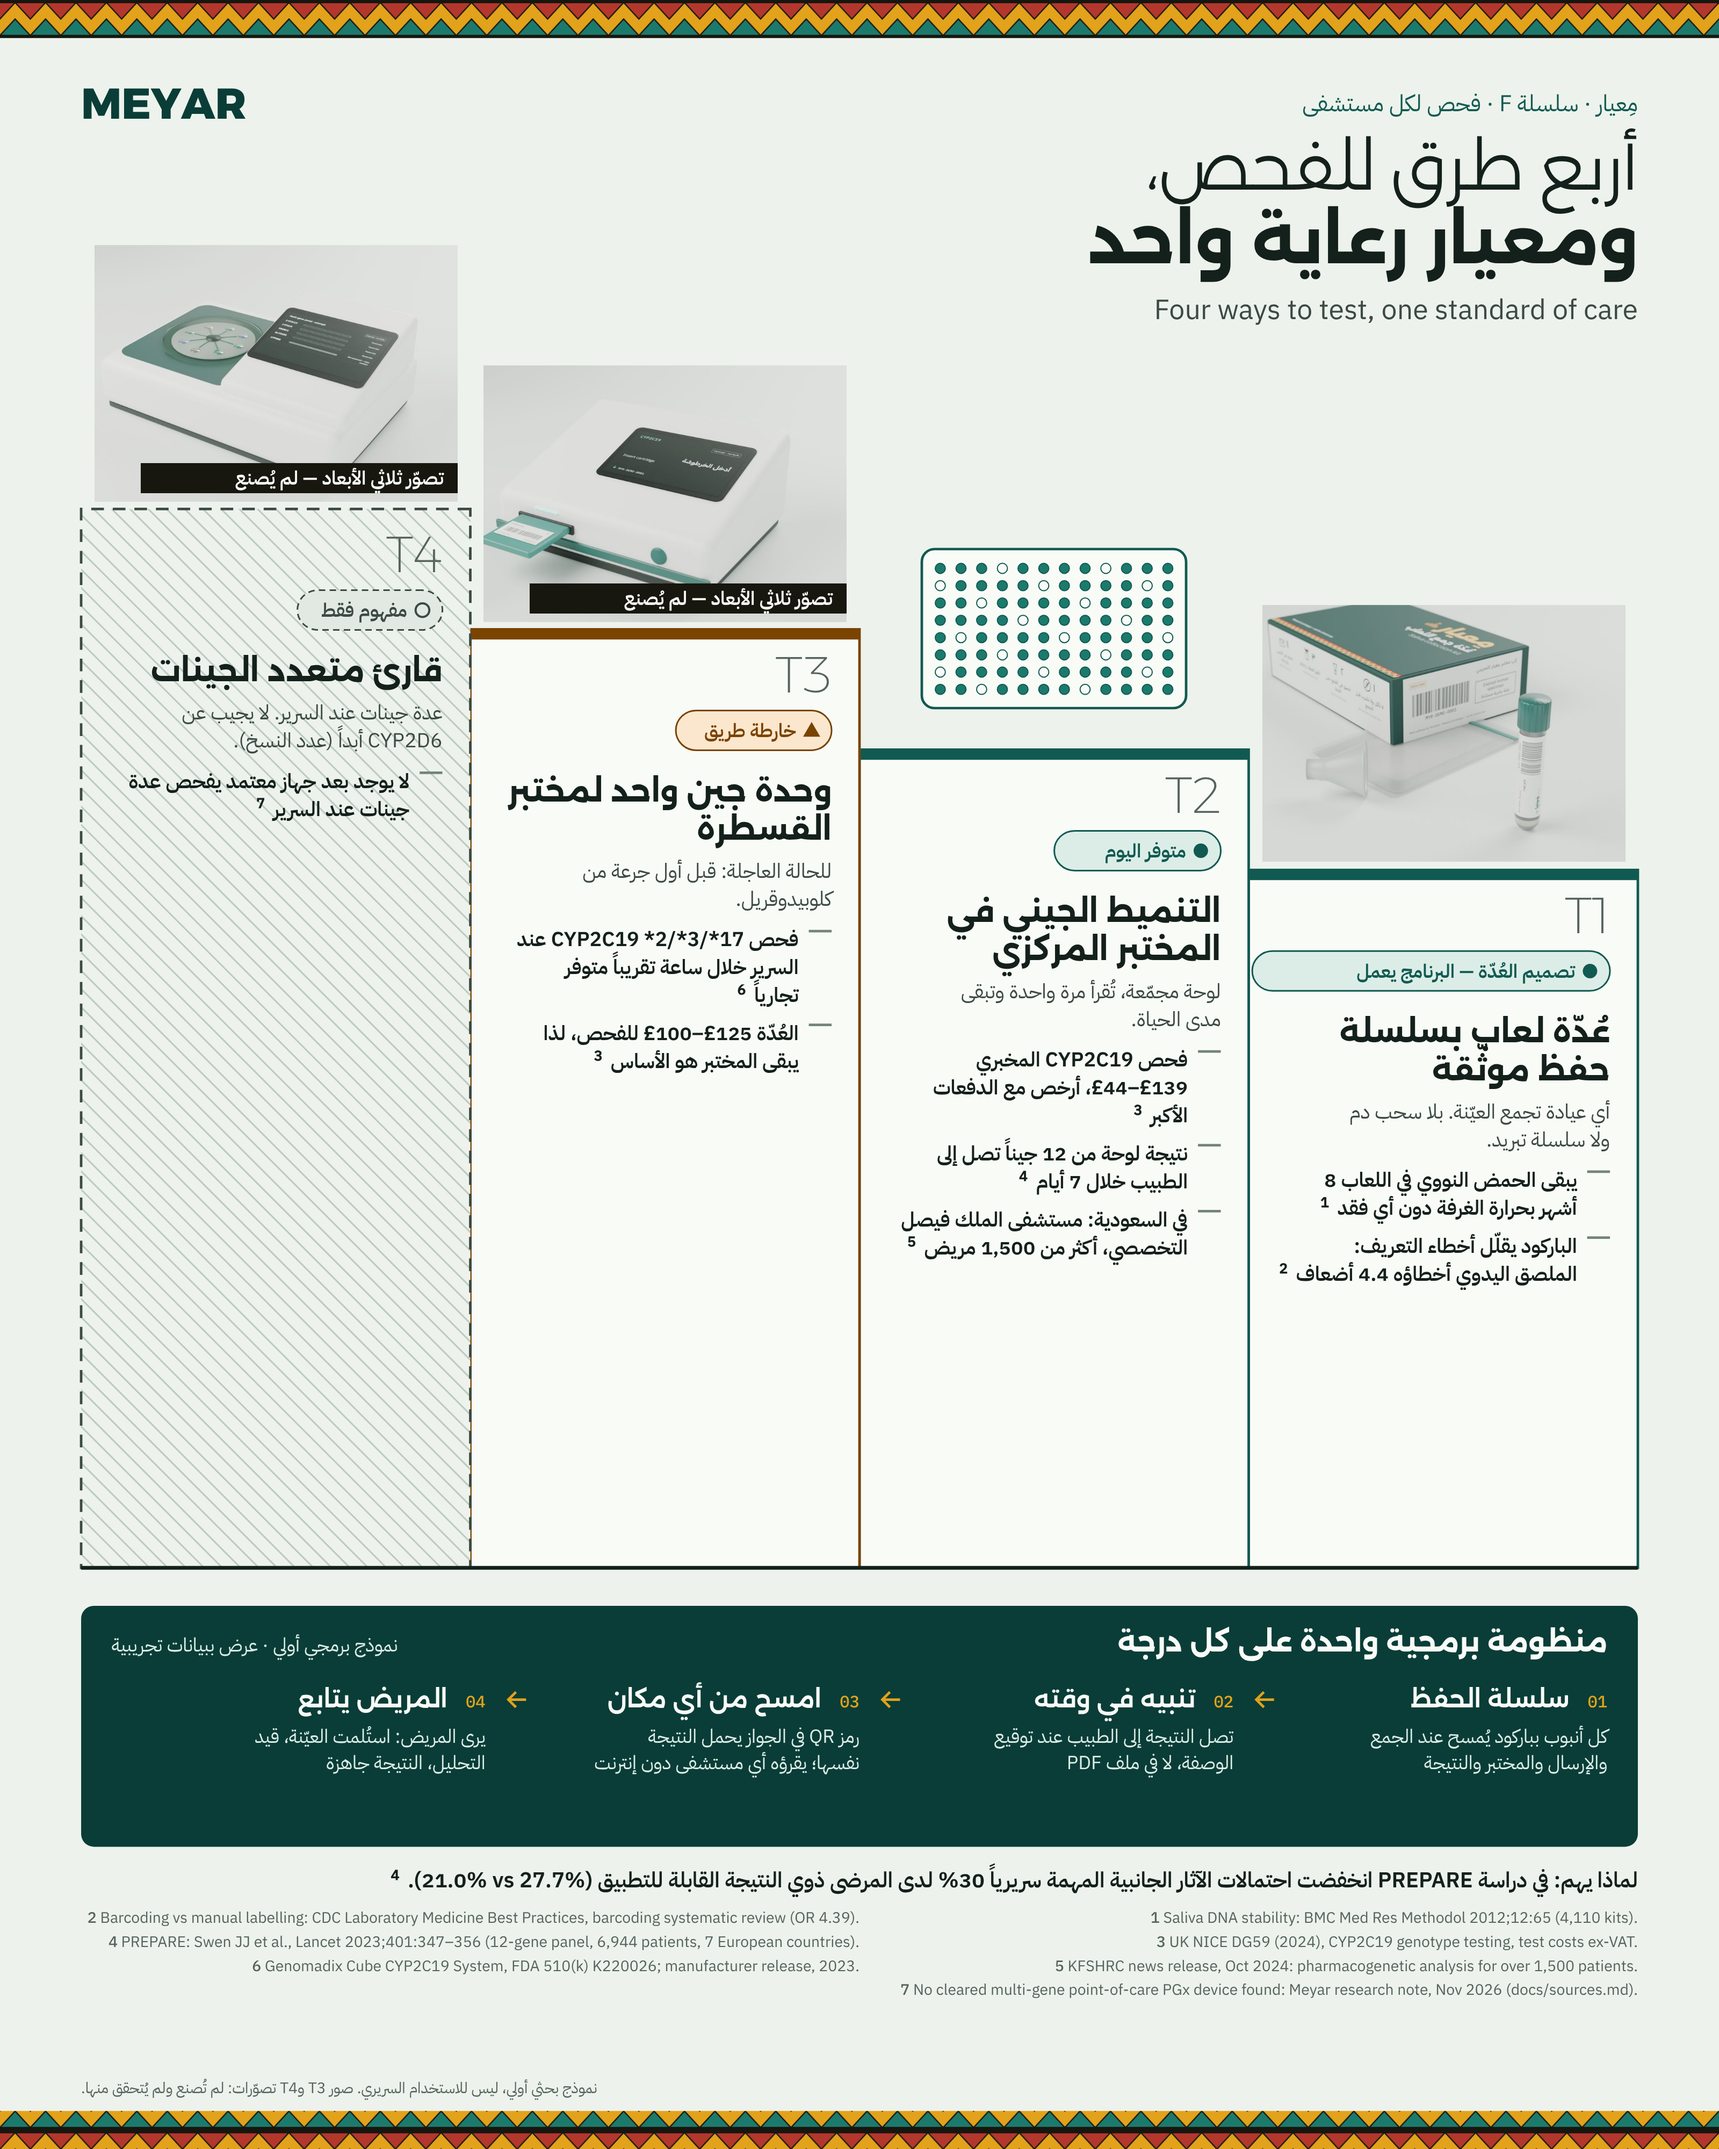
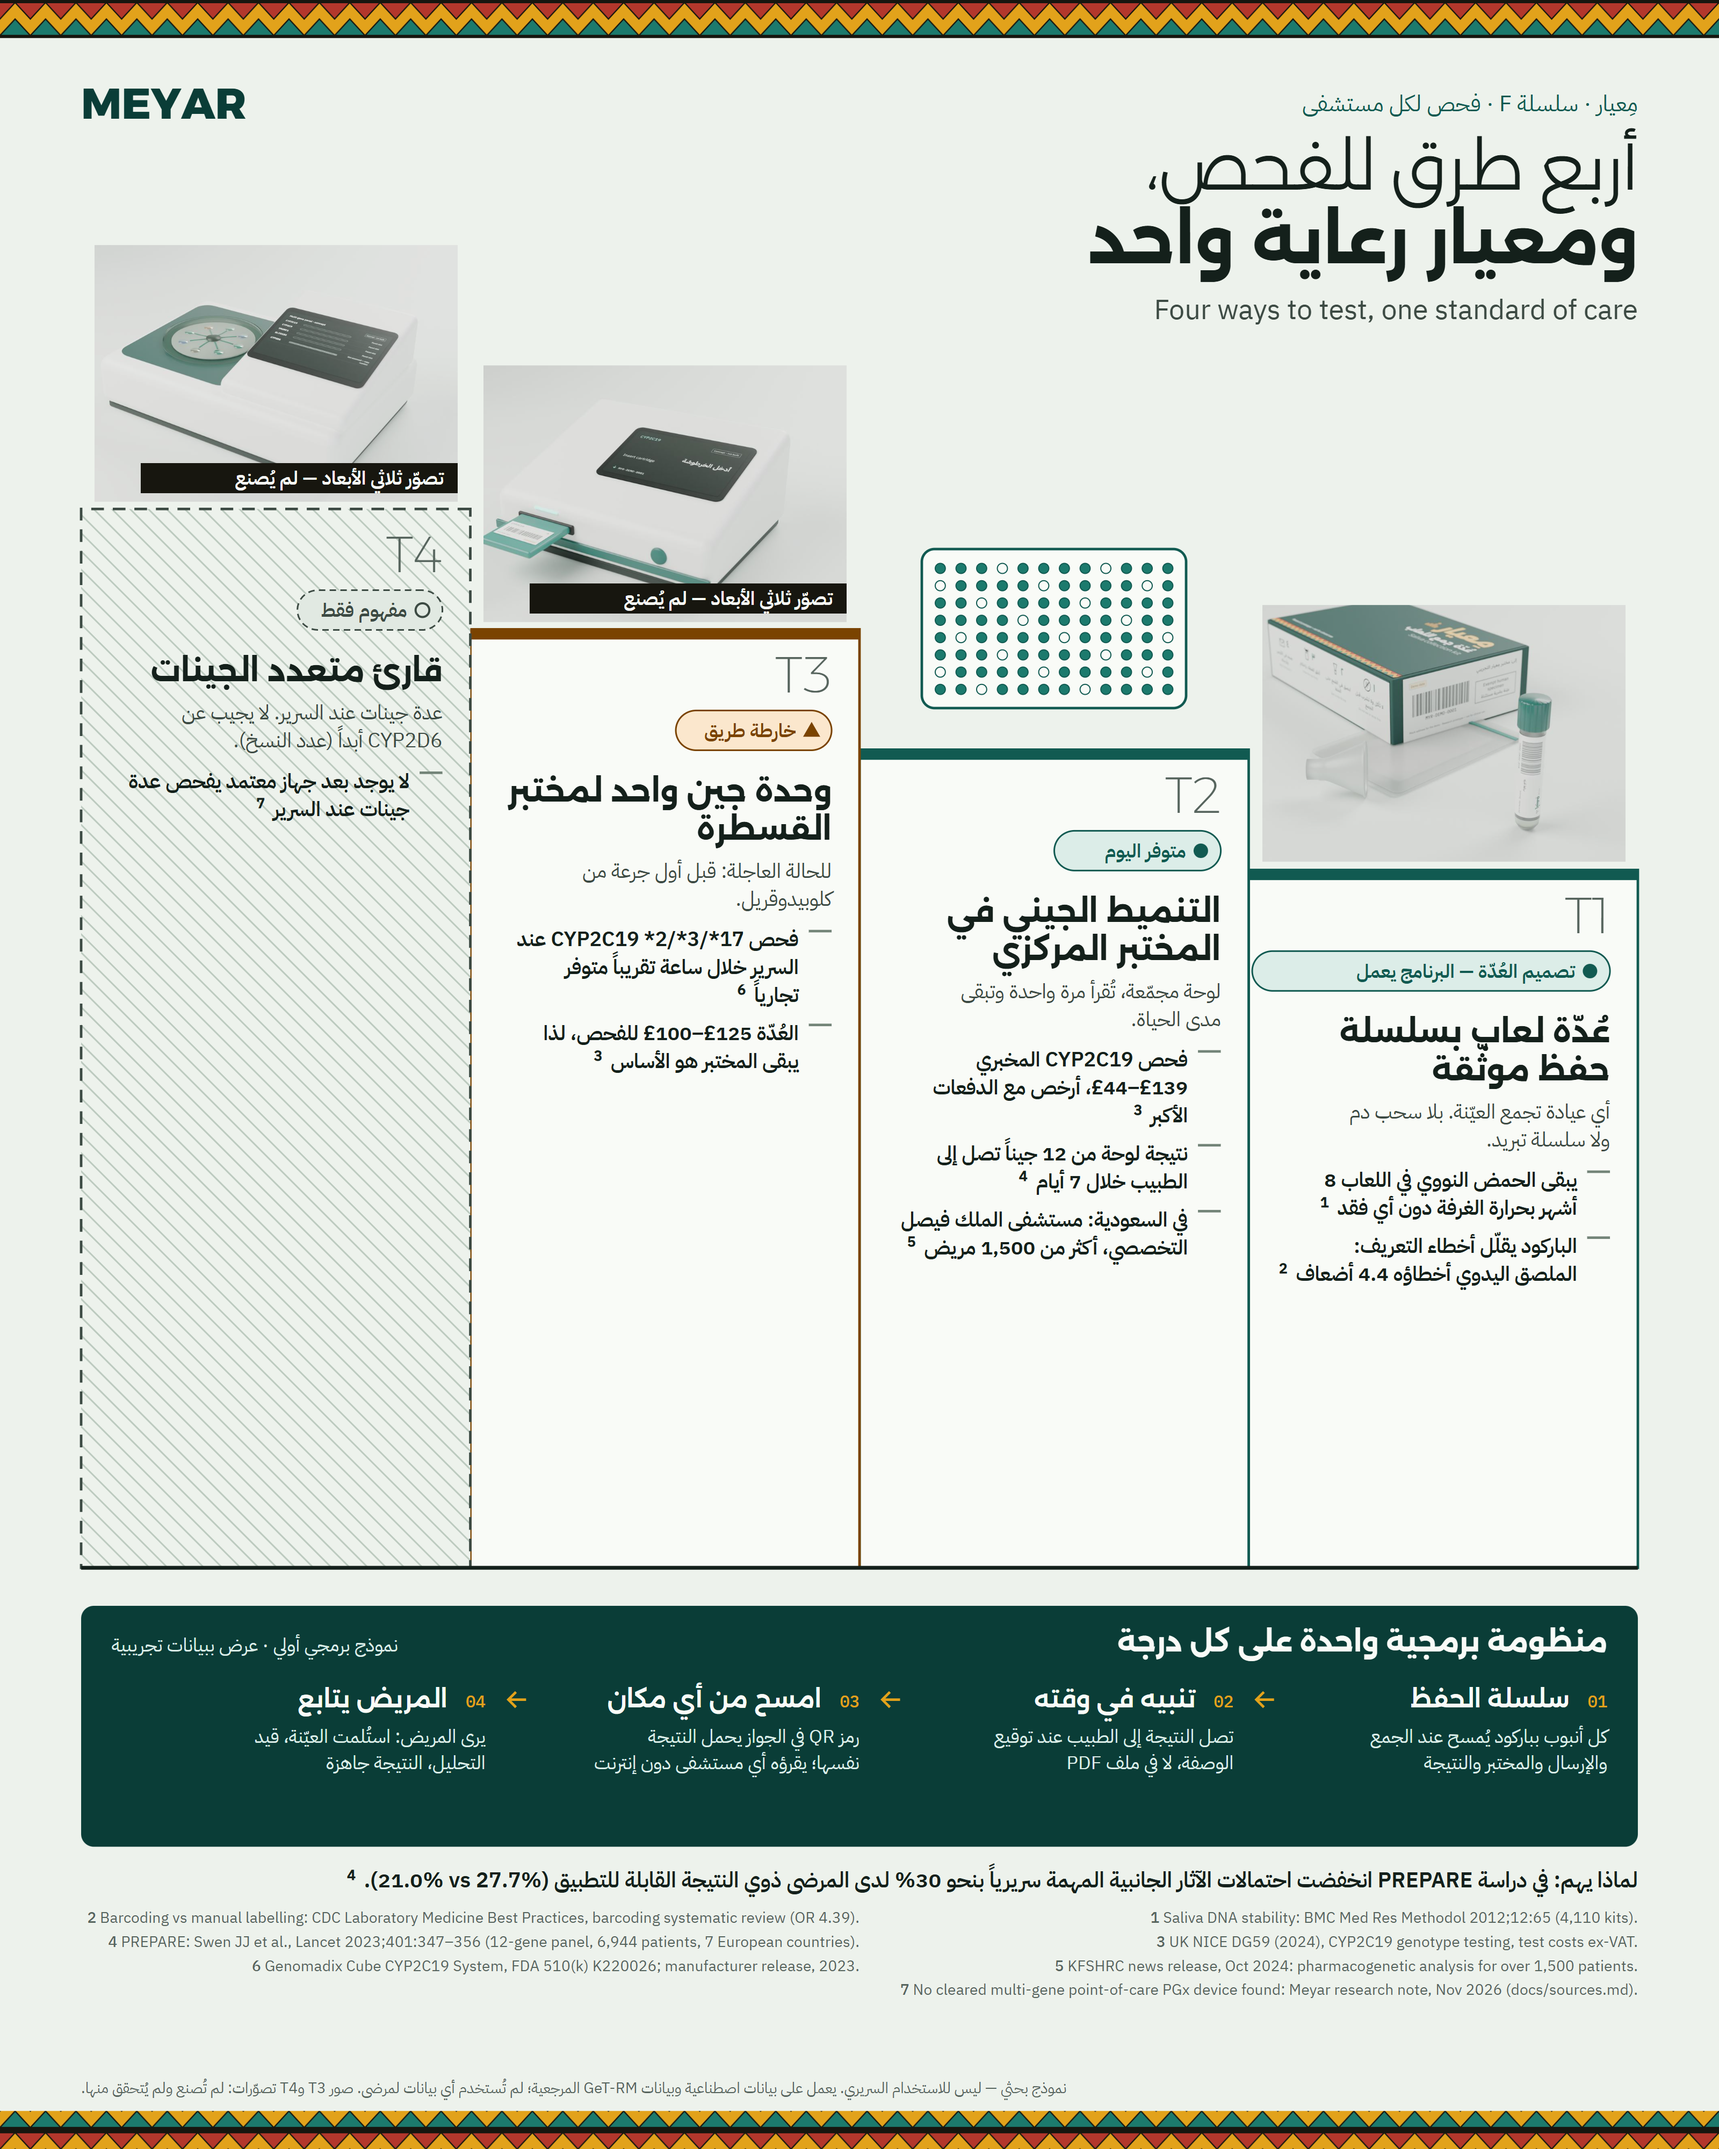
REVIEW: F4 panel carries both mandatory lines and the approved PREPARE wording ('about 30% lower odds'); render_png honours CHROMIUM_PATH

Changed region(s): [[0.2188, 0.875, 0.5, 0.9062], [0.6875, 0.875, 0.9375, 0.9062]]

diff --git a/docs/poster/build_f4.py b/docs/poster/build_f4.py
@@ -52,12 +52,12 @@ SPINE_AR = [
 STR = {
  "en": dict(eyebrow="MEYAR · F SERIES · TESTING FOR EVERY HOSPITAL", second="سُلَّم الفحص: من العيّنة إلى الوصفة الصحيحة",
             spine="One software spine on every step", tag="SOFTWARE PROTOTYPE · DEMO ON MOCK DATA",
-            why="Why it matters: in PREPARE, patients with an actionable result had 30% lower odds of clinically relevant side effects (21.0% vs 27.7%).",
-            disc="Research prototype, not for clinical use. T3 and T4 renders are concepts: not built, not validated.", mark="مِعيار"),
+            why="Why it matters: in PREPARE, patients with an actionable result had about 30% lower odds of clinically relevant side effects (21.0% vs 27.7%).",
+            disc="Research prototype — not for clinical use. Runs on synthetic and GeT-RM reference data; no patient data was used. T3 and T4 renders are concepts: not built, not validated.", mark="مِعيار"),
  "ar": dict(eyebrow="مِعيار · سلسلة F · فحص لكل مستشفى", second="Four ways to test, one standard of care",
             spine="منظومة برمجية واحدة على كل درجة", tag="نموذج برمجي أولي · عرض ببيانات تجريبية",
-            why=f"لماذا يهم: في دراسة {L('PREPARE')} انخفضت احتمالات الآثار الجانبية المهمة سريرياً 30% لدى المرضى ذوي النتيجة القابلة للتطبيق ({L('21.0% vs 27.7%')}).",
-            disc=f"نموذج بحثي أولي، ليس للاستخدام السريري. صور {L('T3')} و{L('T4')} تصوّرات: لم تُصنع ولم يُتحقق منها.", mark="MEYAR"),
+            why=f"لماذا يهم: في دراسة {L('PREPARE')} انخفضت احتمالات الآثار الجانبية المهمة سريرياً بنحو 30% لدى المرضى ذوي النتيجة القابلة للتطبيق ({L('21.0% vs 27.7%')}).",
+            disc=f"نموذج بحثي — ليس للاستخدام السريري. يعمل على بيانات اصطناعية وبيانات GeT-RM المرجعية؛ لم تُستخدم أي بيانات لمرضى. صور {L('T3')} و{L('T4')} تصوّرات: لم تُصنع ولم يُتحقق منها.", mark="MEYAR"),
 }
 
 import re
